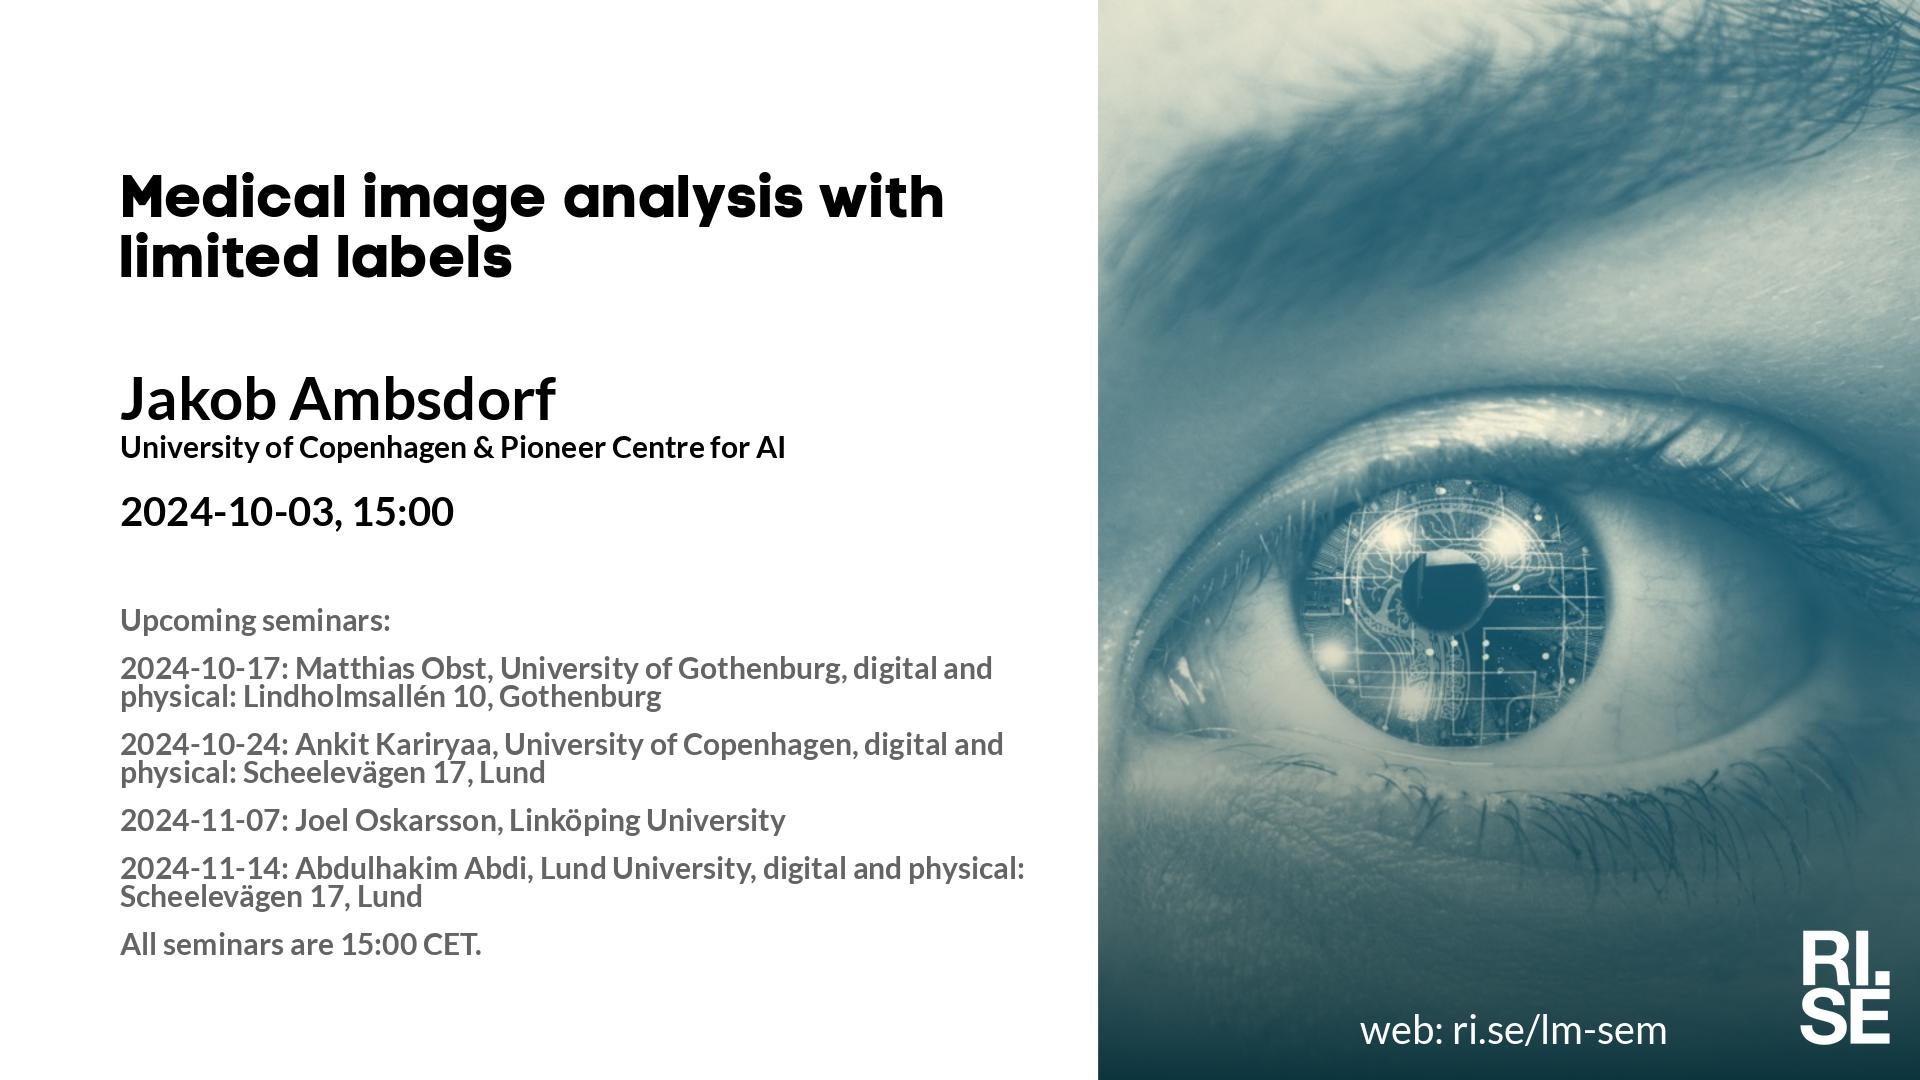
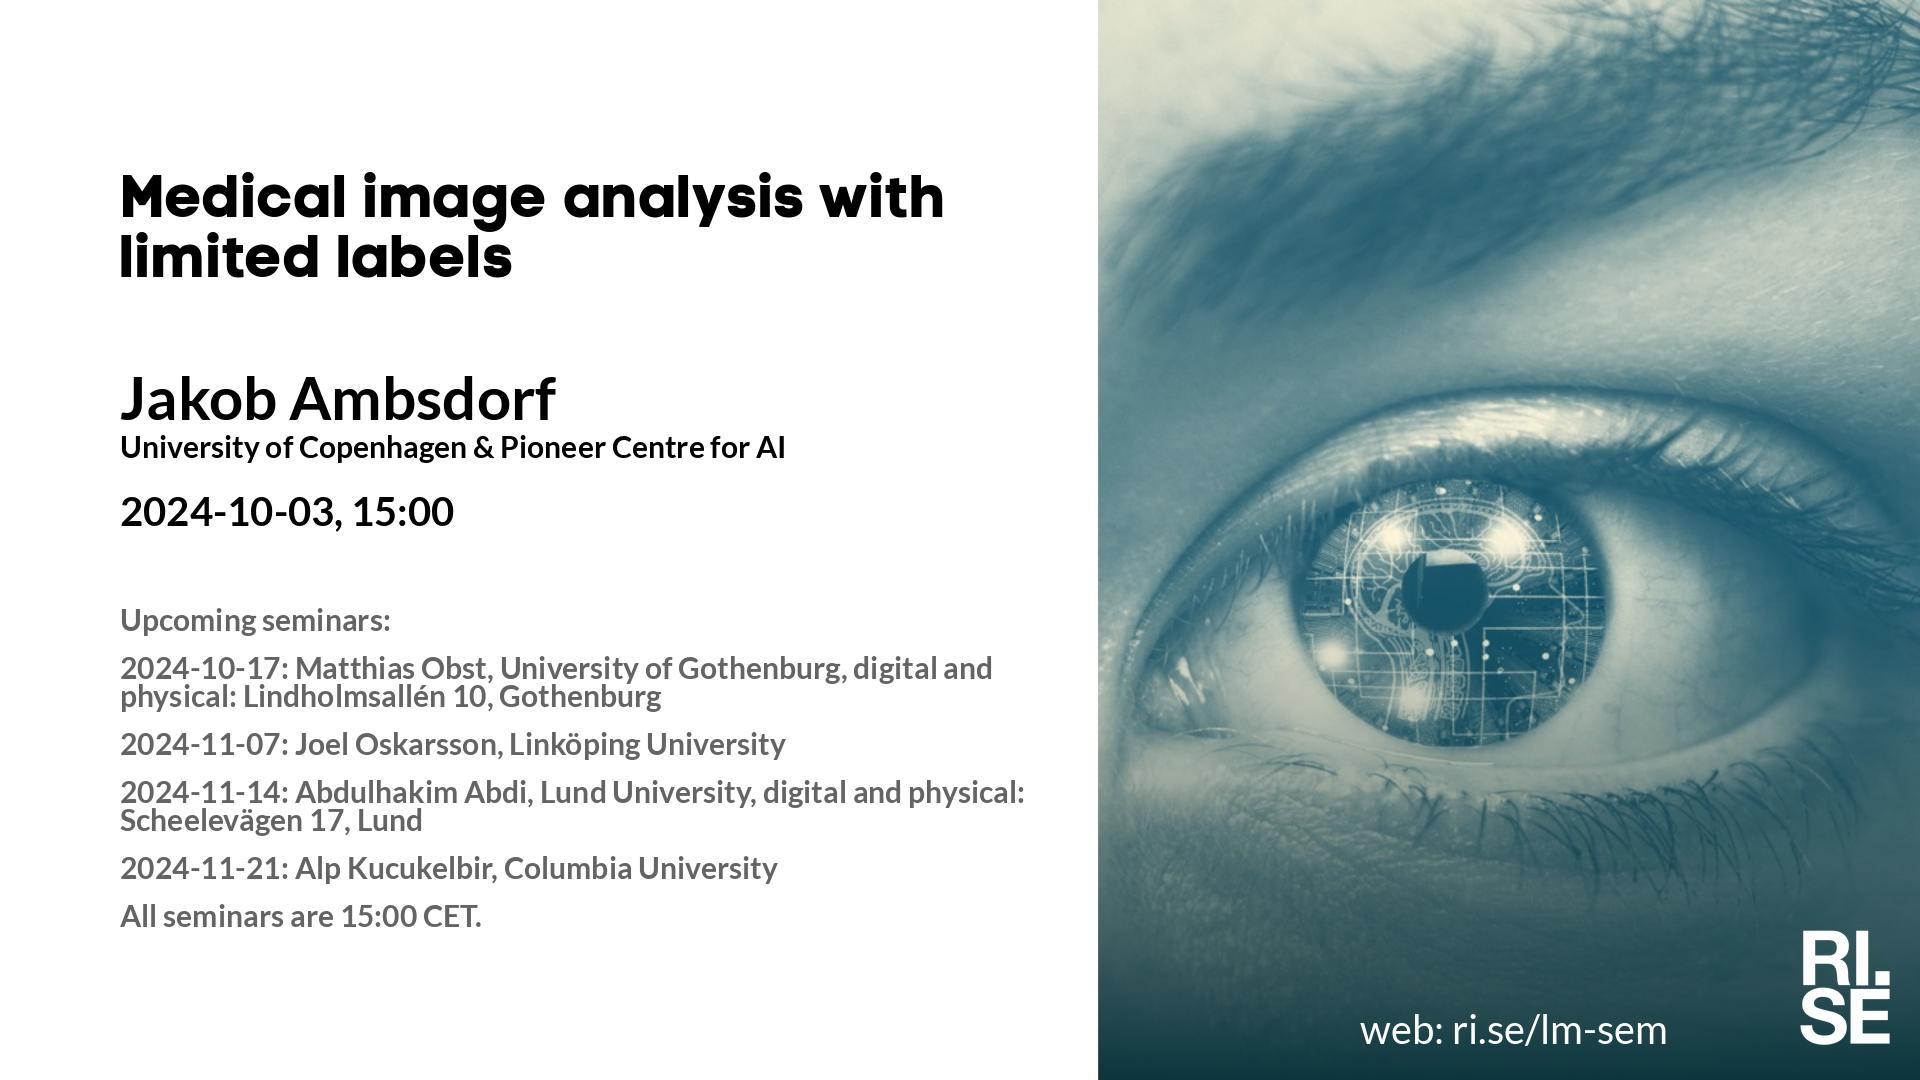
Updated plan on web site.

Changed region(s): [[0.0625, 0.6722, 0.5312, 0.8861]]

diff --git a/lm/index.md b/lm/index.md
@@ -12,7 +12,6 @@ table {border-collapse: collapse;}
 |  2024-10-03  |  [Jakob Ambsdorf, University of Copenhagen & Pioneer Centre for AI](2024-10-03.md)  |  [photo](photo-jakob-ambsdorf.jpg)  |  [social media ](social-media-jakob-ambsdorf.jpg)  |  [meeting backdrop ](meeting-backdrop-jakob-ambsdorf.jpg)  |  [youtube thumbnail ](youtube-thumbnail-jakob-ambsdorf.jpg)  |  STABP  |
 | <span style="color:red"> 2024-10-10 </span> | <span style="color:red"> CANCELLED </span> | <span style="color:red">  </span> | <span style="color:red">  </span> | <span style="color:red">  </span> | <span style="color:red">  </span> | <span style="color:red"> CANCELLED </span> |
 |  2024-10-17  |  [Matthias Obst, University of Gothenburg](2024-10-17.md)  |  [photo](photo-matthias-obst.jpg)  |  [social media ](social-media-matthias-obst.jpg)  |  [meeting backdrop ](meeting-backdrop-matthias-obst.jpg)  |  [youtube thumbnail ](youtube-thumbnail-matthias-obst.jpg)  |  STABP  |
-|  2024-10-24  |  [Ankit Kariryaa, University of Copenhagen](2024-10-24.md)  |  [photo](photo-ankit-kariryaa.jpg)  |  [social media ](social-media-ankit-kariryaa.jpg)  |  [meeting backdrop ](meeting-backdrop-ankit-kariryaa.jpg)  |  [youtube thumbnail ](youtube-thumbnail-ankit-kariryaa.jpg)  |  STABP  |
 | <span style="color:red"> 2024-10-31 </span> | <span style="color:red"> Höstlov </span> | <span style="color:red">  </span> | <span style="color:red">  </span> | <span style="color:red">  </span> | <span style="color:red">  </span> | <span style="color:red"> CANCELLED </span> |
 |  2024-11-07  |  [Joel Oskarsson, Linköping University](2024-11-07.md)  |  [photo](photo-joel-oskarsson.jpg)  |  [social media ](social-media-joel-oskarsson.jpg)  |  [meeting backdrop ](meeting-backdrop-joel-oskarsson.jpg)  |  [youtube thumbnail ](youtube-thumbnail-joel-oskarsson.jpg)  |  STABP  |
 |  2024-11-14  |  [Abdulhakim Abdi, Lund University](2024-11-14.md)  |  [photo](photo-abdulhakim-abdi.jpg)  |  [social media ](social-media-abdulhakim-abdi.jpg)  |  [meeting backdrop ](meeting-backdrop-abdulhakim-abdi.jpg)  |  [youtube thumbnail ](youtube-thumbnail-abdulhakim-abdi.jpg)  |  S~~TAB~~P  |

diff --git a/lm/2024-10-03.md b/lm/2024-10-03.md
@@ -27,9 +27,9 @@ This seminar will have an in-person presence at the RISE office in Lund, located
 **Upcoming seminars:**
 
 * 2024-10-17: Matthias Obst, University of Gothenburg, **digital and physical: Lindholmsallén 10, Gothenburg**
-* 2024-10-24: Ankit Kariryaa, University of Copenhagen, **digital and physical: Scheelevägen 17, Lund**
 * 2024-11-07: Joel Oskarsson, Linköping University
 * 2024-11-14: Abdulhakim Abdi, Lund University, **digital and physical: Scheelevägen 17, Lund**
+* 2024-11-21: Alp Kucukelbir, Columbia University
 * All seminars are 15:00 CET.
 
 More information and coming seminars: [https://ri.se/lm-sem](https://ri.se/lm-sem)

diff --git a/lm/2024-10-17.md b/lm/2024-10-17.md
@@ -26,10 +26,10 @@ This seminar will have an in-person presence at RISE office in Gothenburg locate
 
 **Upcoming seminars:**
 
-* 2024-10-24: Ankit Kariryaa, University of Copenhagen, **digital and physical: Scheelevägen 17, Lund**
 * 2024-11-07: Joel Oskarsson, Linköping University
 * 2024-11-14: Abdulhakim Abdi, Lund University, **digital and physical: Scheelevägen 17, Lund**
 * 2024-11-21: Alp Kucukelbir, Columbia University
+* 2024-11-28: Alireza Taheri Dehkordi, Lund University, **digital and physical: Scheelevägen 17, Lund**
 * All seminars are 15:00 CET.
 
 More information and coming seminars: [https://ri.se/lm-sem](https://ri.se/lm-sem)
